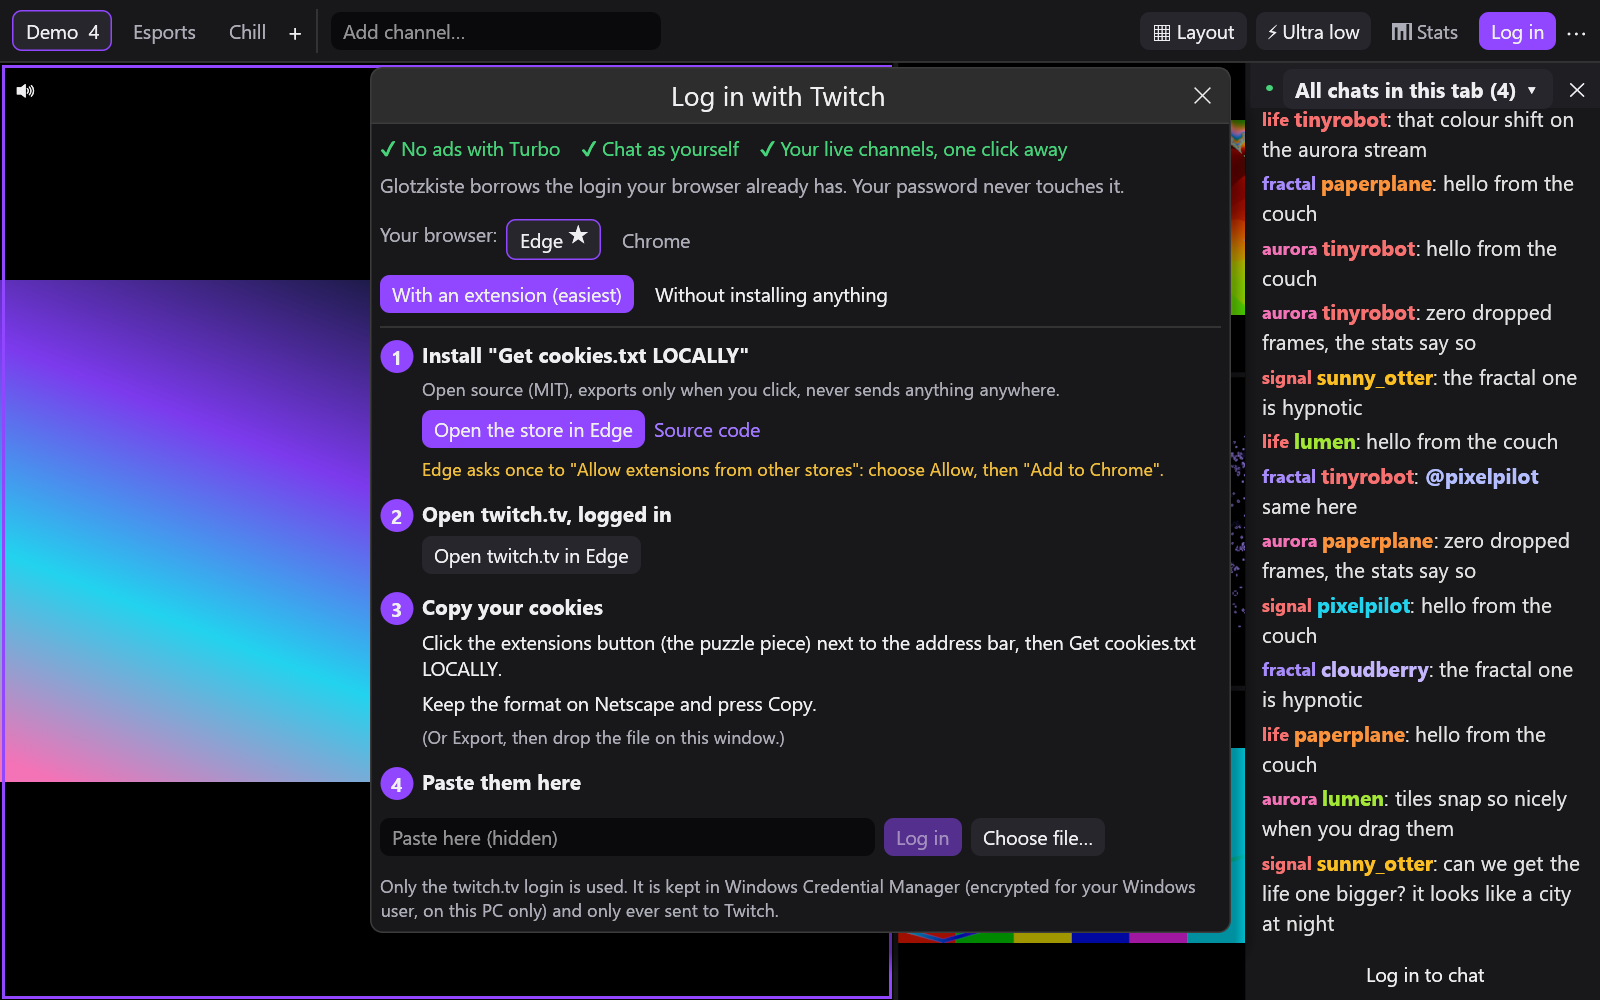
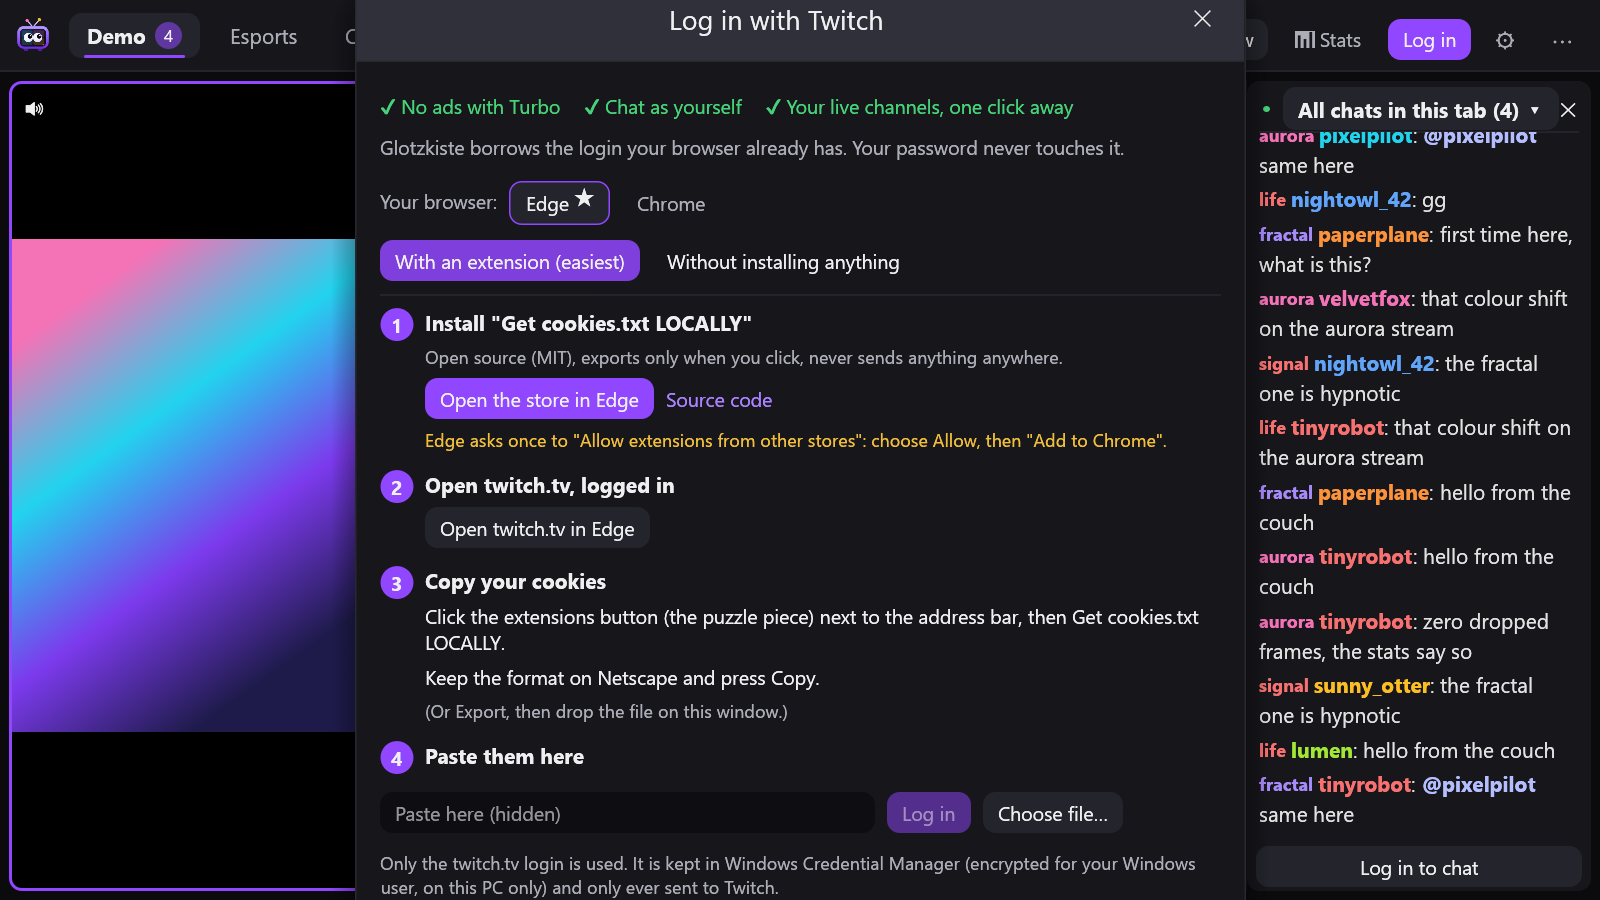
Glotzkiste 1.2.0

diff --git a/CHANGELOG.md b/CHANGELOG.md
@@ -2,6 +2,8 @@
 
 ## Unreleased
 
+## 1.2.0
+
 - **A cleaner look:** the logo in the top bar, pill tabs with an accent underline and stream count badges, one style for every icon button, a search field for adding channels, rounded tiles (the video too) with more air between them, a soft shade behind a tile's hover bar instead of a hard strip, a card for empty tabs (with "Random live streams"), roomier menus and dialogs with shadows.
 - **Full decoder relief:** a video decoder at 92 % or more counts as overloaded even without rising drops (late frames are skipped, not dropped); the valve then moves up to three streams per step: to a GPU with room, else the smallest ones (480p or less, cheap in software) to the CPU. Stats name the saturated decoder (90 % or more) instead of "Display" for streams on the main GPU, and the decoded total counts at least the frames each stream shows.
 - Two unfinished frames per stream on the GPU (four shared textures per stream): with a full decoder one frame in flight capped every stream at about 12 fps. Balancing moves up to four streams every two seconds while a video decoder is at 90 % or more.
